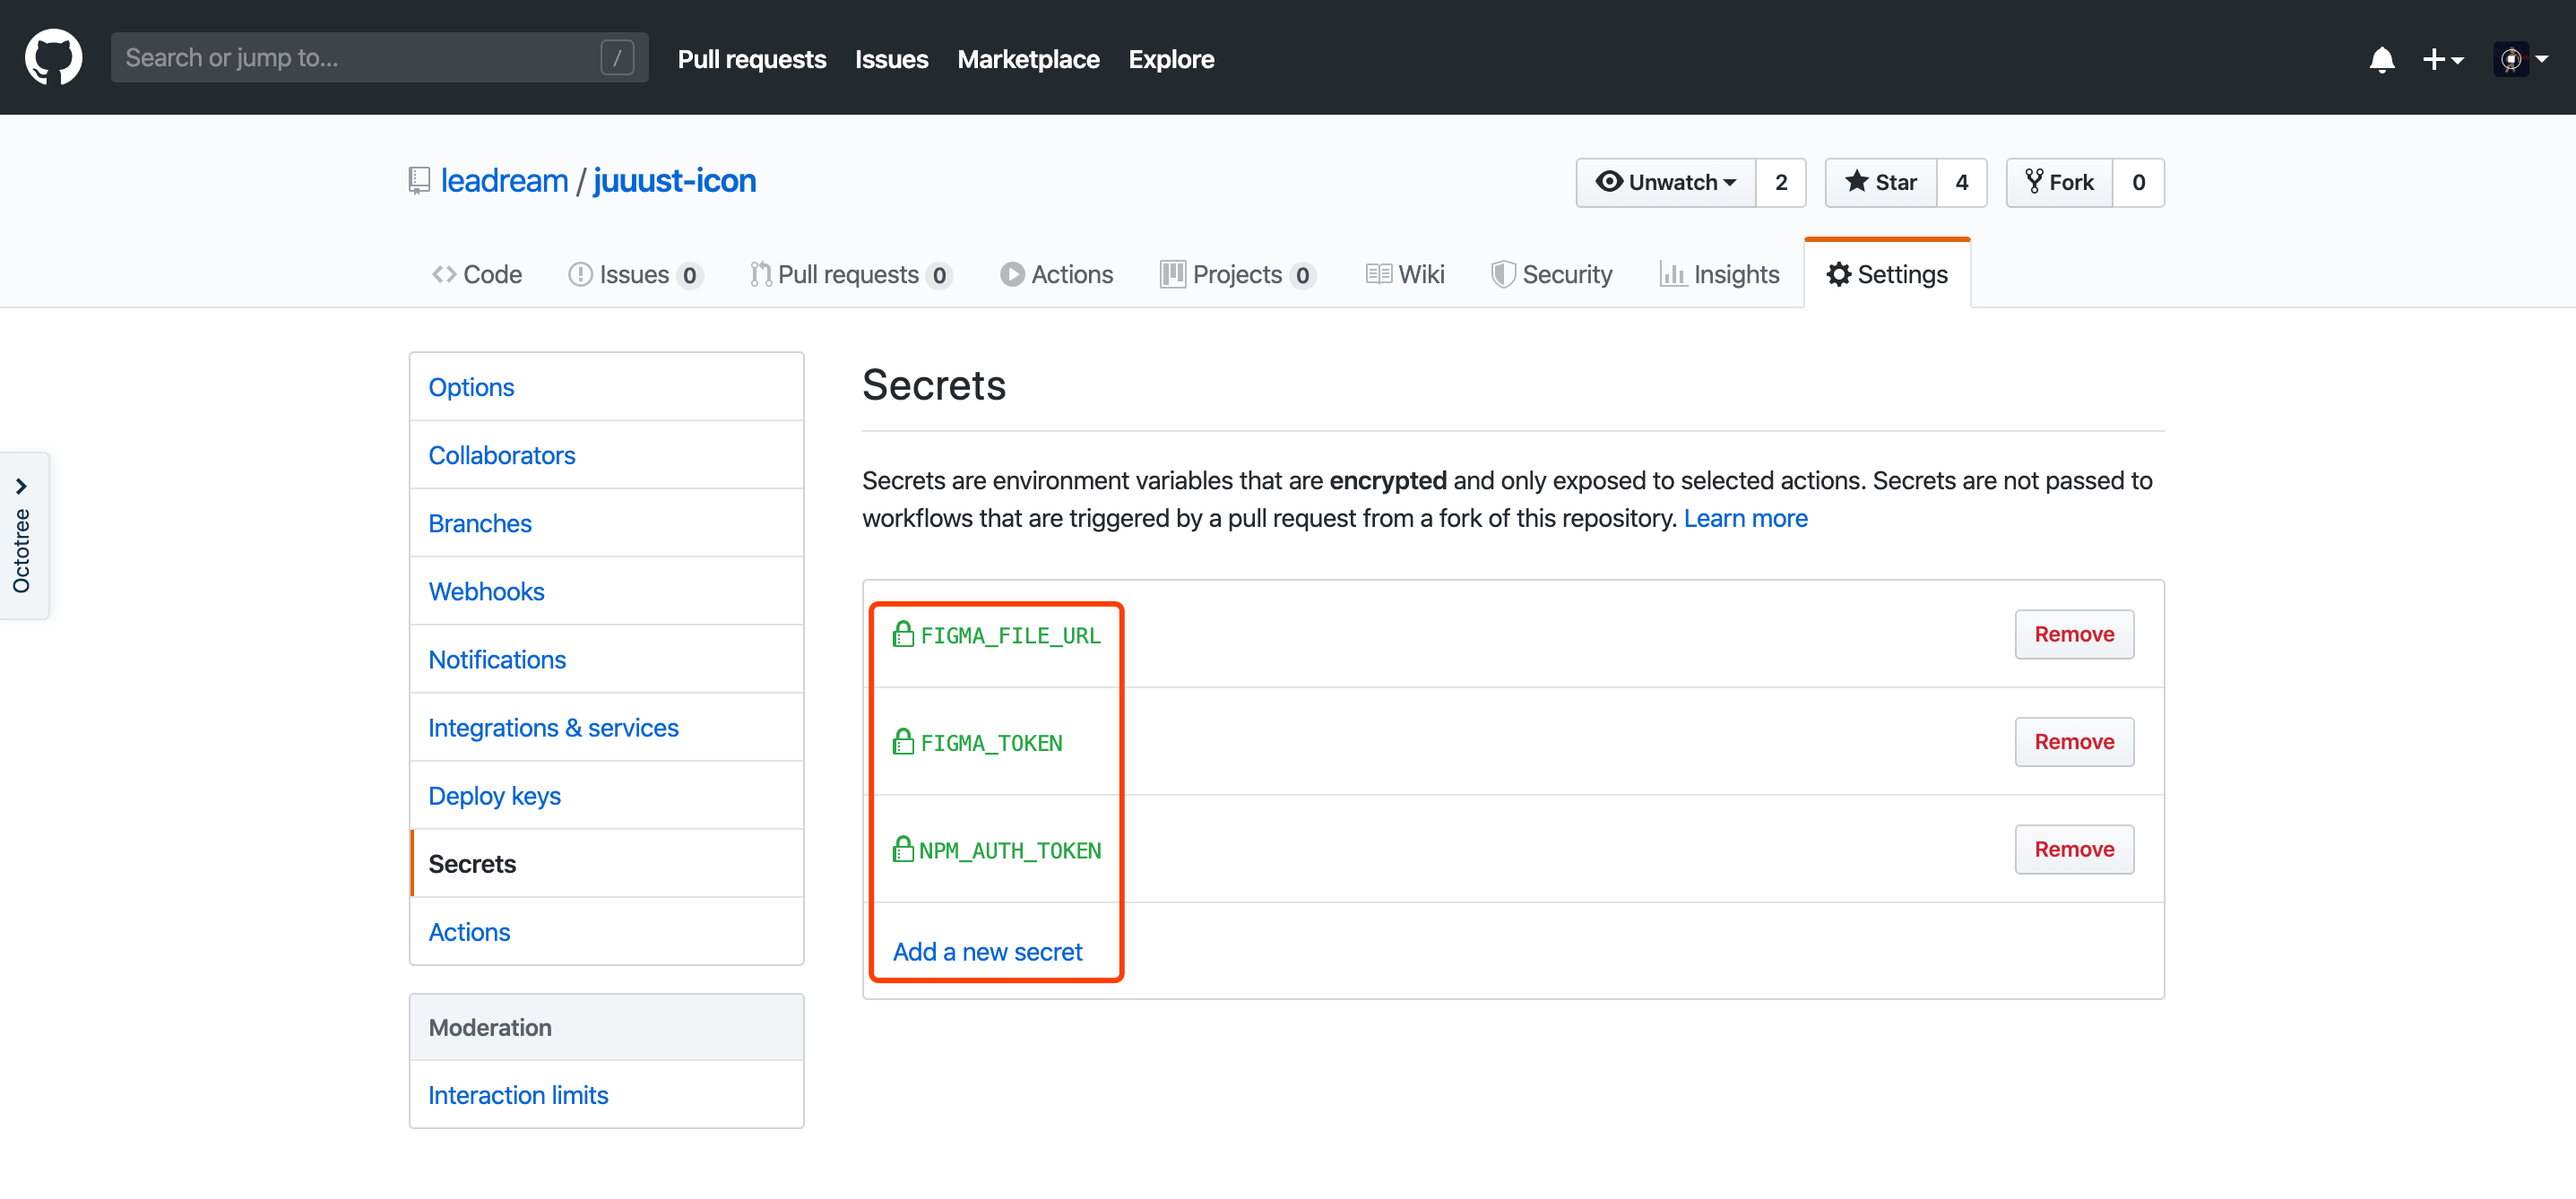
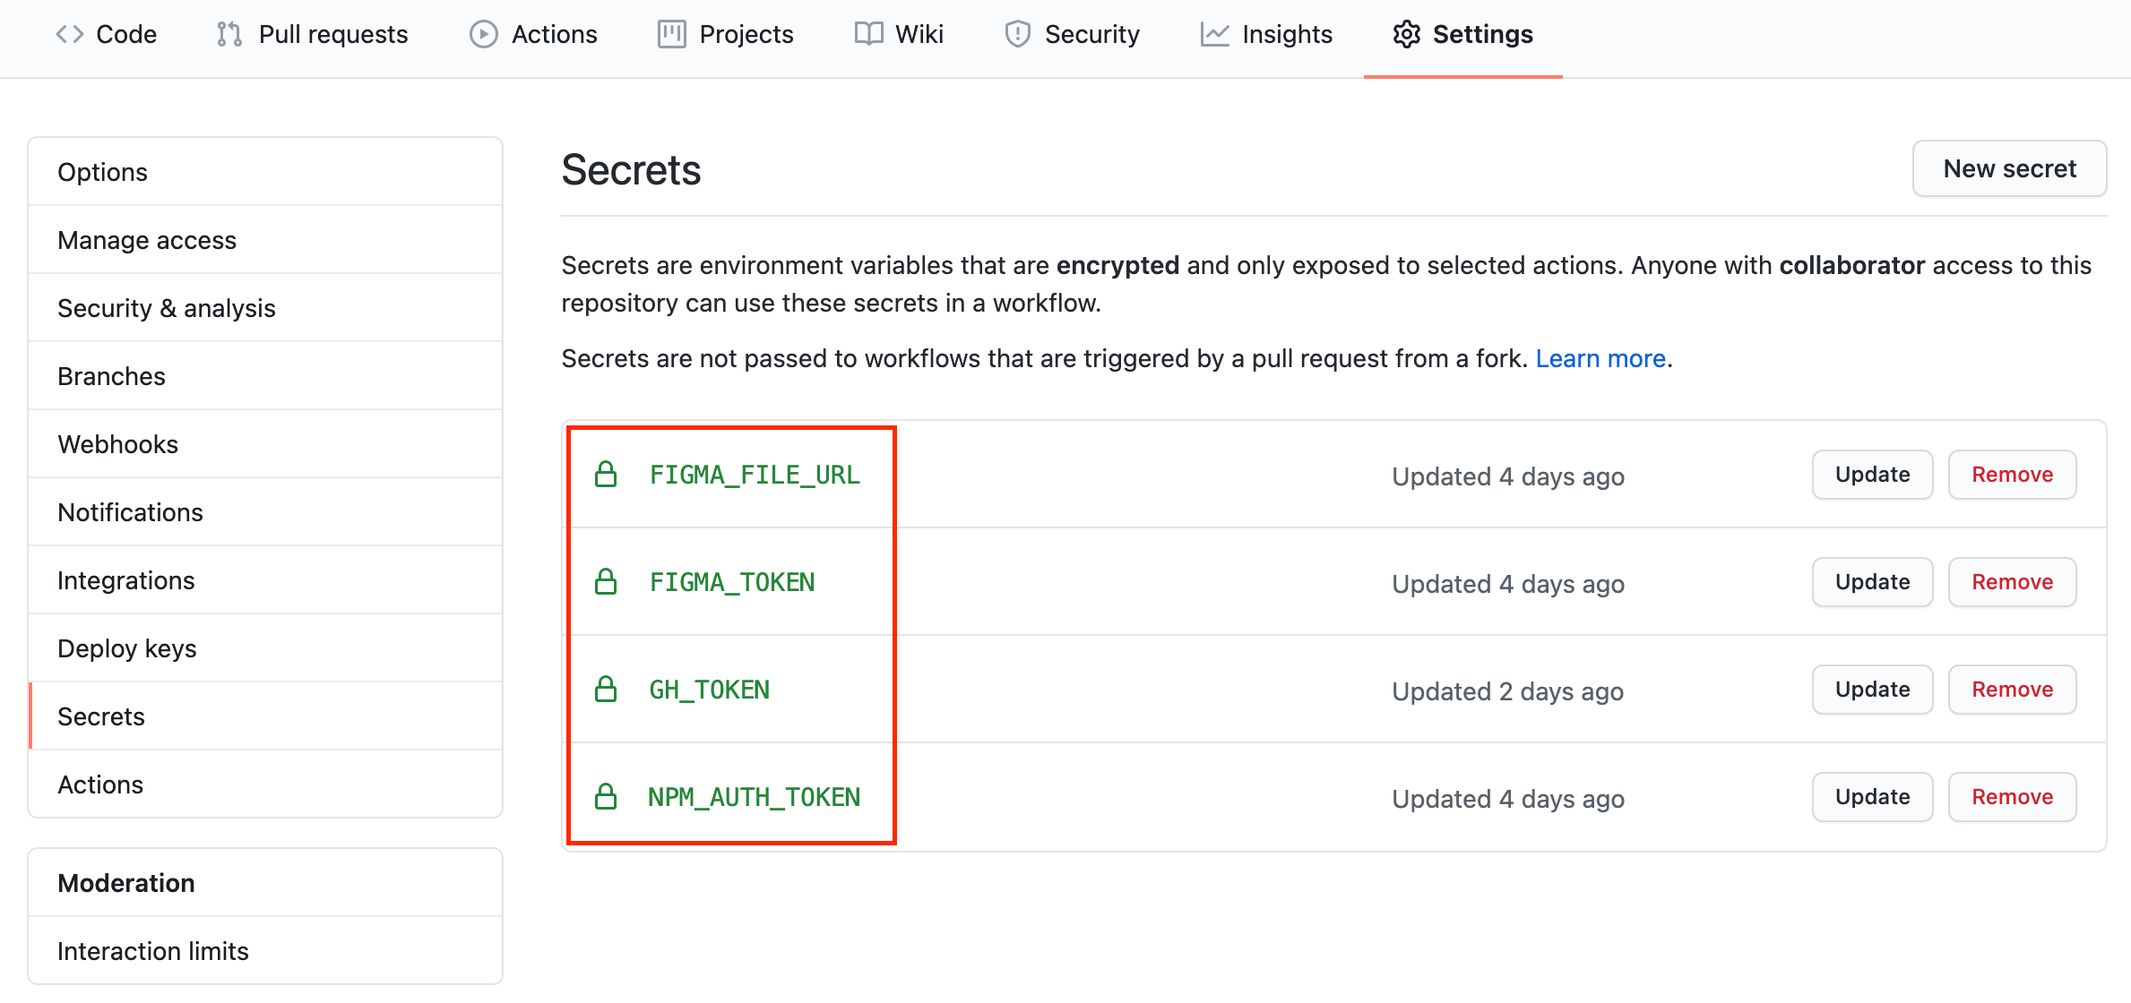
docs: add GH_TOKEN

diff --git a/README.md b/README.md
@@ -53,12 +53,13 @@ We need Figma、GitHub and NPM's tokens for the rest steps。
 - **NPM**: Go to your NPM profile page, find tokens section. Generate a new token and copy it to user later.
 ![npm-token](./imgs/npm-token.png)
 
-#### 5. Set 3 Secrets
+#### 5. Set 4 Secrets
 
-The GitHub needs 3 secrets, which you can set in Settings -> Secrets page.
+The GitHub needs 4 secrets, which you can set in Settings -> Secrets page.
 - **FIGMA_FILE_URL**: The Figma file URL in the first step.
 - **FIGMA_TOKEN**: Figma token created in previous step.
 - **NPM_AUTH_TOKEN**: NPM token created in previous step.
+- **GH_TOCKEN**：GitHub token created in previous step（ for gh-pages ）。
 
 ![repo-secrets](./imgs/repo-secrets.png)
 
